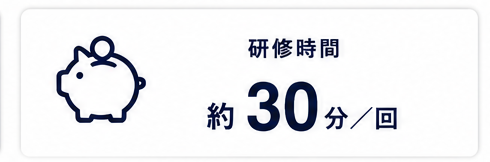
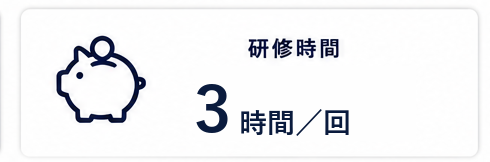
研修時間の表記をFV・助成金セクションで修正（全18時間・3時間/回）
FVの3枚目メトリックカードをオンライン相談所要時間から研修時間(全18時間)に変更し、助成金セクションの1回あたり時間カードを約30分/回から3時間/回に修正（18時間÷6回=3時間/回の整合性を確保）。

Changed region(s): [[0.398, 0.4938, 0.8265, 0.8333]]

diff --git a/ai-sales-dx-lp/index.html b/ai-sales-dx-lp/index.html
@@ -231,16 +231,16 @@
           </div>
         </div>
         <div class="metric-card" style="background: #ffffff; border: 1.5px solid #d4a24a; border-radius: 12px; padding: 12px 8px 14px; display: flex; flex-direction: column; align-items: center; text-align: center; box-shadow: 0 2px 6px rgba(212,162,74,0.12);">
-          <div style="font-size: 11px; font-weight: 900; color: #0a1b3d; line-height: 1.1; margin-bottom: 8px; letter-spacing: 0.02em;">オンライン相談 所要</div>
+          <div style="font-size: 11px; font-weight: 900; color: #0a1b3d; line-height: 1.1; margin-bottom: 8px; letter-spacing: 0.02em;">研修時間</div>
           <div style="display: flex; align-items: flex-end; justify-content: center; gap: 4px;">
             <svg viewBox="0 0 24 24" class="metric-icon" style="width: 30px; height: 30px; flex-shrink: 0; margin-bottom: 4px;" fill="none" stroke="#0a1b3d" stroke-width="2" stroke-linecap="round" stroke-linejoin="round">
               <circle cx="12" cy="12" r="9"></circle>
               <polyline points="12,7 12,12 15.5,14"></polyline>
             </svg>
-            <span class="metric-number" style="font-family: 'Noto Serif JP', serif; font-size: 44px; font-weight: 900; color: #c99429; letter-spacing: -0.05em; line-height: 0.9;">30</span>
+            <span class="metric-approx" style="font-size: 11px; font-weight: 900; color: #0a1b3d; align-self: flex-end; margin-bottom: 10px;">全</span>
+            <span class="metric-number" style="font-family: 'Noto Serif JP', serif; font-size: 44px; font-weight: 900; color: #c99429; letter-spacing: -0.05em; line-height: 0.9;">18</span>
             <div style="display: flex; flex-direction: column; align-items: flex-start; line-height: 1;">
-              <span class="metric-unit" style="font-family: 'Noto Serif JP', serif; font-size: 20px; font-weight: 900; color: #c99429; line-height: 0.9;">分</span>
-              <span style="font-size: 10px; font-weight: 900; color: #0a1b3d; margin-top: 4px; letter-spacing: 0.04em;">で完了</span>
+              <span class="metric-unit" style="font-family: 'Noto Serif JP', serif; font-size: 20px; font-weight: 900; color: #c99429; line-height: 0.9;">時間</span>
             </div>
           </div>
         </div>
@@ -758,7 +758,7 @@
     <div style="display: grid; grid-template-columns: 445fr 550fr 490fr; gap: 7px; margin-bottom: 20px;">
       <img class="subsidy-item d3" src="assets/subsidy2/03_training_hours_18h.png" style="width: 100%; display: block;" alt="研修時間 全18時間">
       <img class="subsidy-item d4" src="assets/subsidy2/04_company_payment_400000.png" style="width: 100%; display: block;" alt="企業がお支払いする金額 1名あたり400,000円（税込）">
-      <img class="subsidy-item d5" src="assets/subsidy2/05_training_time_30min.png" style="width: 100%; display: block;" alt="研修時間 約30分/回">
+      <img class="subsidy-item d5" src="assets/subsidy2/05_training_time_30min.png" style="width: 100%; display: block;" alt="研修時間 3時間/回">
     </div>
 
     <img class="subsidy-item d6" src="assets/subsidy2/06_subsidy_breakdown.png" style="display: block; width: 100%; margin-bottom: 4px;" alt="助成金活用時の内訳　助成率75%最大助成　①助成額300,000円　②定額加算18,000円　助成金合計318,000円">
